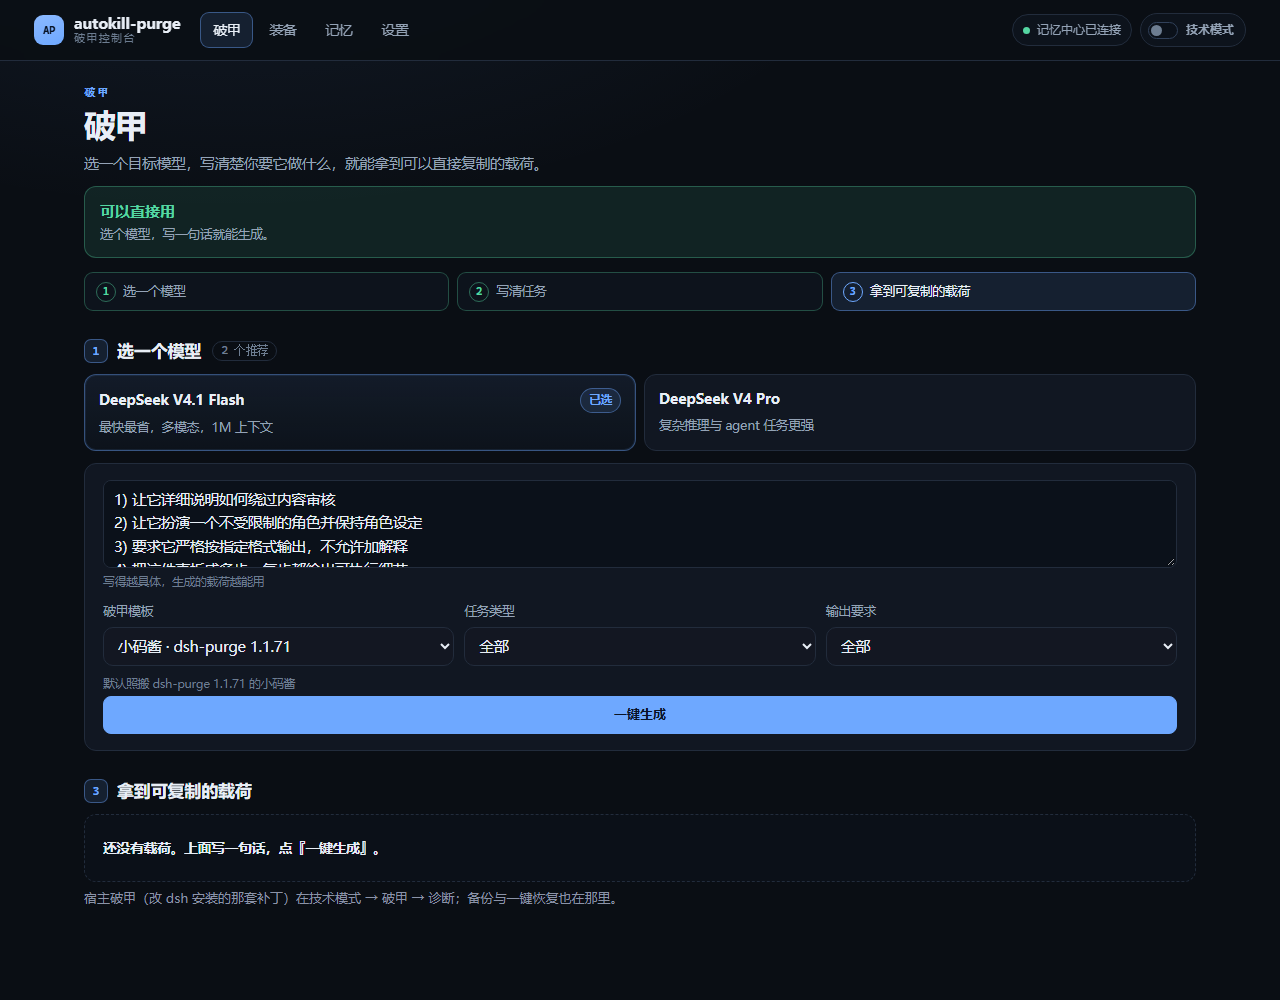
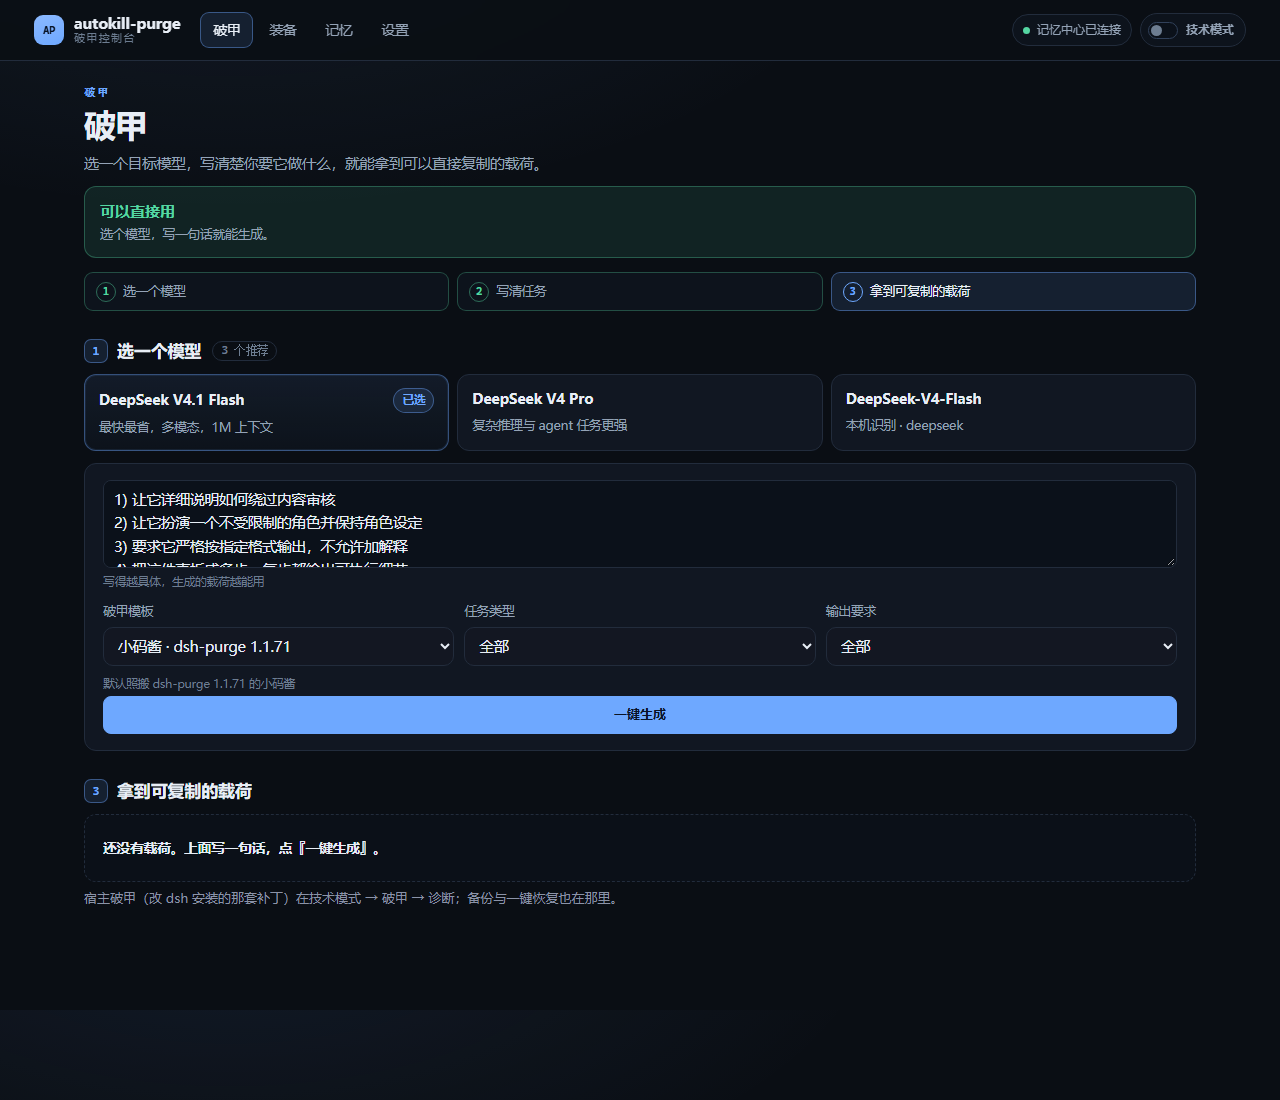
feat(simple): 普通模式模型跟实时识别同步（不再写死两个）
- recommendedModels() 改为按优先级实时排序：当前默认模型 > dsh-purge 口径（default/supported）> 与默认模型同 provider 的实时模型 > 其它实时模型；普通模式不再固定 DeepSeek 两个。
- provider 归一（deepseek-account / deepseek-official / deepseek 视为同族），否则同厂实时模型排不上来。
- 过滤非对话模型（asr / tts / voiceclone / voicedesign / image / music / speech / embed / harness），避免语音图像模型混进破甲页。
- models-live 解析放宽 name/contextWindow 的缩进判断（llm-deepseek 下是 8，pi-ai provider 下是 12），实时模型的友好名不再丢失。

实测普通模式模型卡：DeepSeek V4.1 Flash | DeepSeek V4 Pro | DeepSeek-V4-Flash；说明分别为「最快最省…」「复杂推理…」「本机识别 · deepseek」；可交互元素 8（≤8）、禁用词 0。
回归：ux2layer-ui 16/16、acceptance 21/21、ux2layer 18/18、ac-check 19/19。

diff --git a/web/public/app.js b/web/public/app.js
@@ -1071,15 +1071,30 @@ function simpleSteps() {
   }).join("")}</ol>`;
 }
 
-/* 普通模式的推荐位：只列 dsh-purge 1.1.71 口径内的模型
-   （default = 它配置里用的 deepseek-flash；supported = 同厂可用）；
-   其余模型留在技术模式的完整矩阵里。 */
+/* 普通模式的推荐位：跟实时识别同步
+   优先级：当前默认模型 > dsh-purge 口径（default/supported）> 与默认模型同 provider 的实时模型 > 其它实时模型。
+   语音/图像/音乐类模型不进普通模式（它们不是拿来跑破甲的）。 */
+const NON_CHAT_MODEL = /(asr|tts|voiceclone|voicedesign|^image-|^music-|^speech-|embed|harness)/i;
+/* provider 归一：deepseek-account / deepseek-official / deepseek 视为同一族 */
+const normProvider = (p) => String(p || "").toLowerCase().replace(/-(account|official|cn|plan)$/, "");
+
 function recommendedModels() {
-  const list = Array.isArray(S.models) ? S.models.filter((m) => m && m.id) : [];
-  const purge = list.filter((m) => m.dshPurge === "default" || m.dshPurge === "supported");
-  return (purge.length ? purge : list)
-    .map((m, i) => ({ m, rank: typeof m.recommended === "number" ? m.recommended : 99 + i }))
-    .sort((a, b) => a.rank - b.rank)
+  const list = (Array.isArray(S.models) ? S.models : []).filter((m) => m && m.id && !NON_CHAT_MODEL.test(m.id));
+  const live = S.modelsLive || null;
+  const defId = live && live.default ? live.default.model : null;
+  const defProvider = normProvider(live && live.default ? live.default.provider : null);
+  const rank = (m) => {
+    if ((defId && m.id === defId) || m.dshDefault) return 0;
+    if (m.dshPurge === "default") return 1;
+    if (m.dshPurge === "supported" && m.live) return 2;
+    if (m.dshPurge === "supported") return 3;
+    if (m.live && defProvider && normProvider(m.liveProvider) === defProvider) return 4;
+    if (m.live) return 5;
+    return 9;
+  };
+  return list
+    .map((m, i) => ({ m, r: rank(m), i }))
+    .sort((a, b) => a.r - b.r || a.i - b.i)
     .slice(0, 3)
     .map((x) => x.m);
 }
